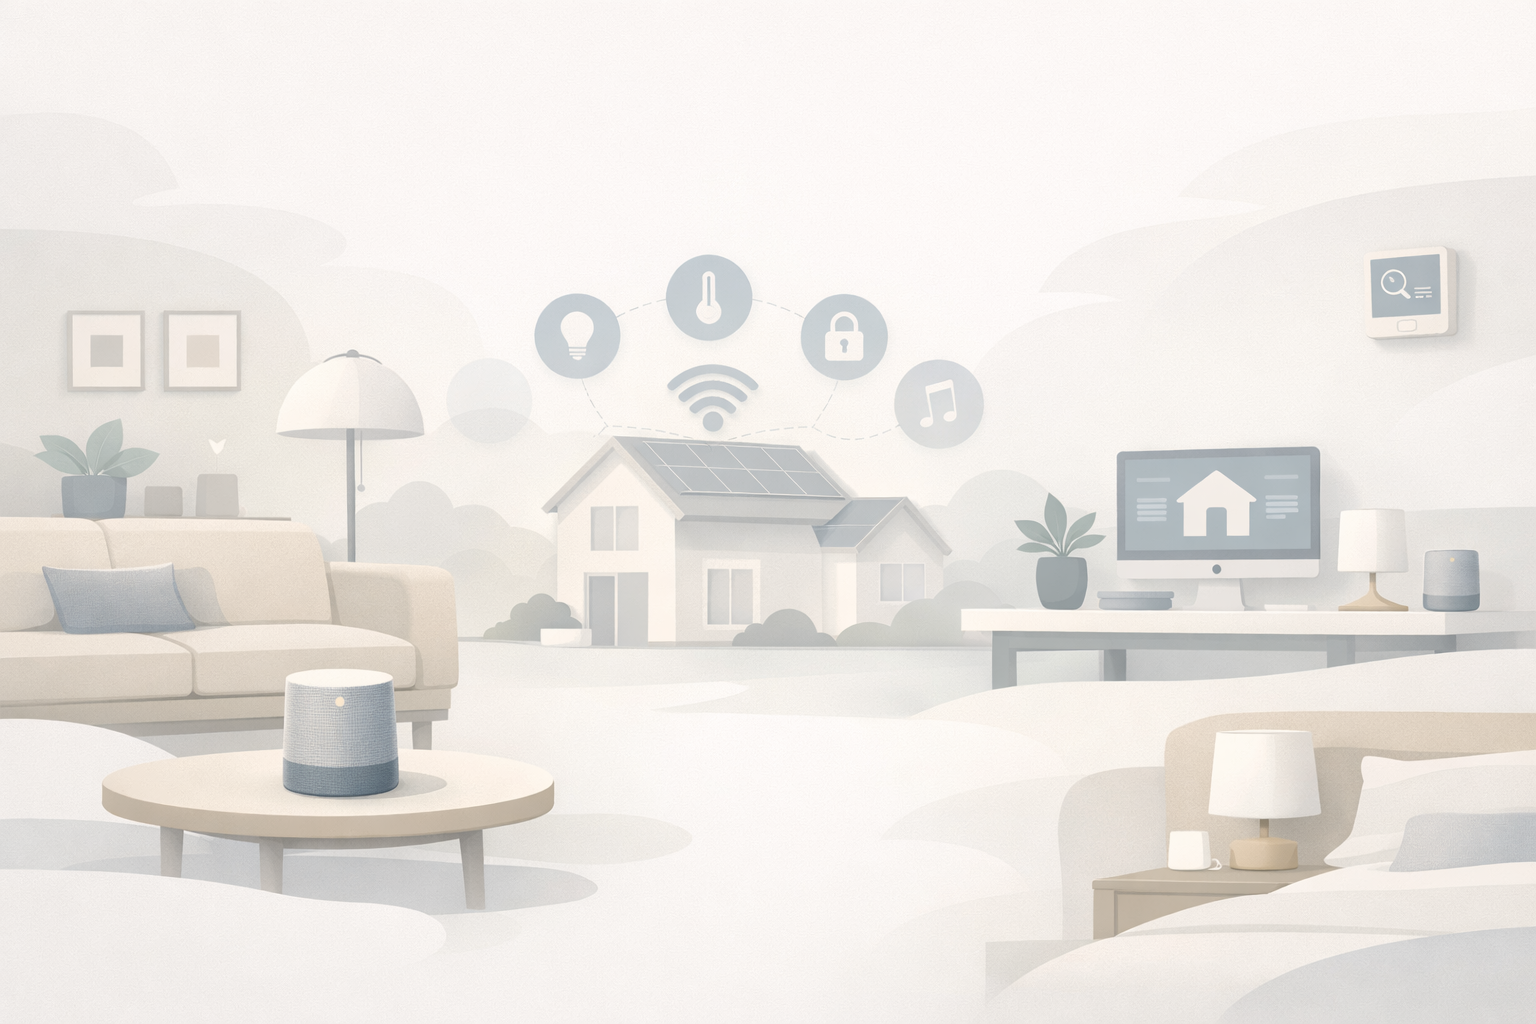
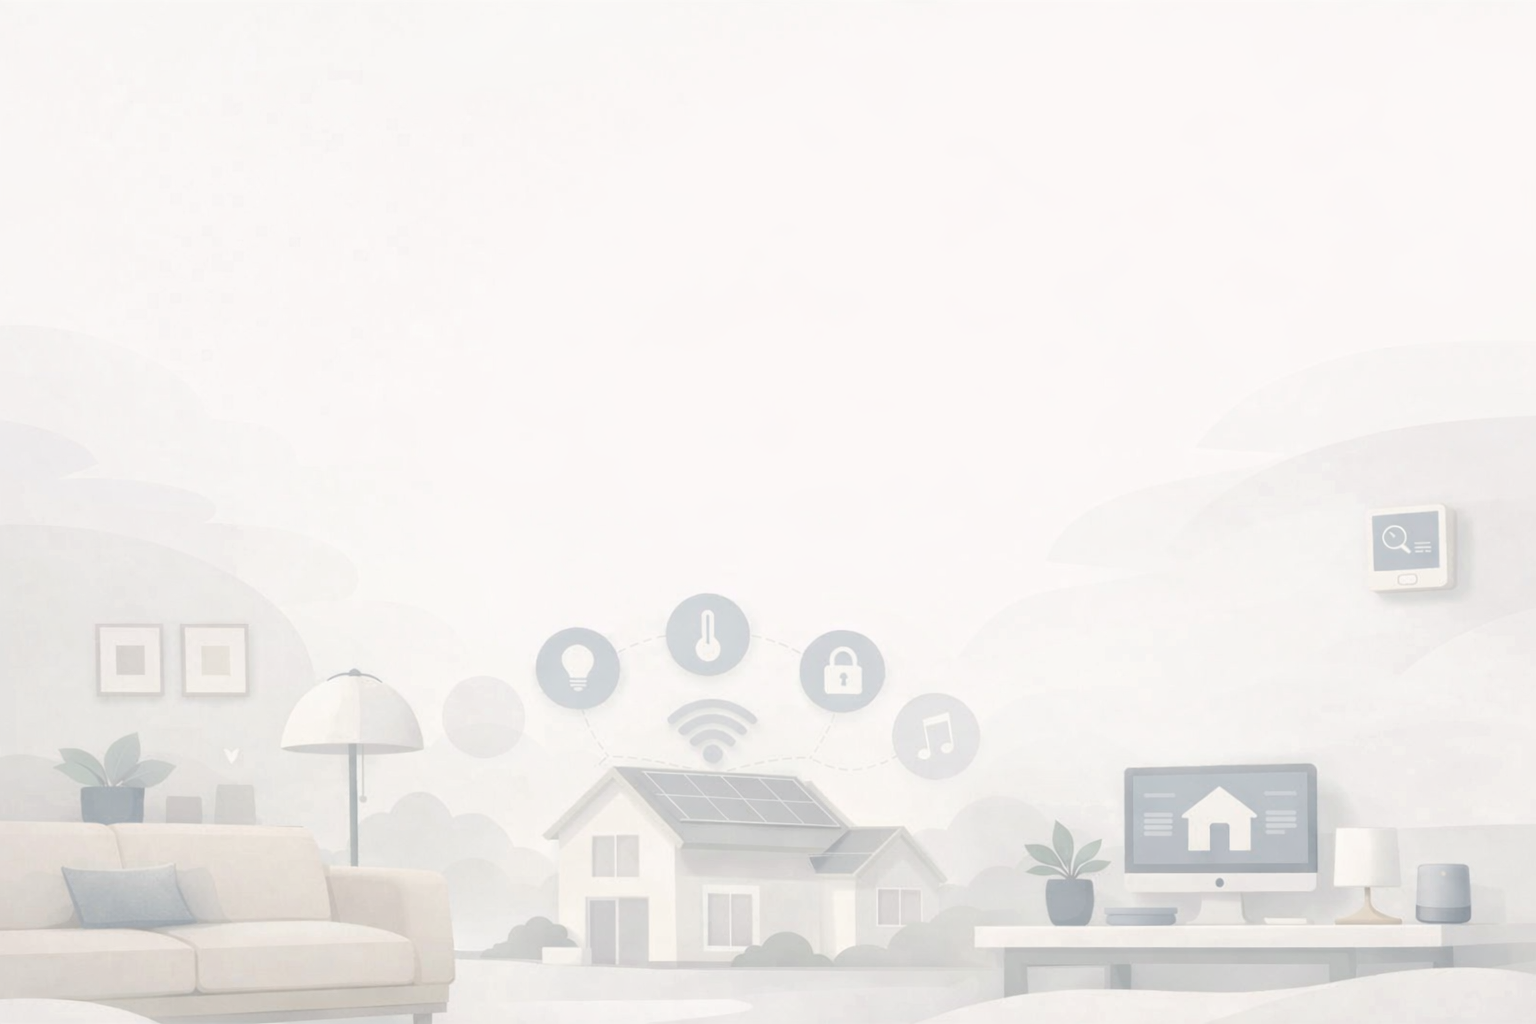
version.json

diff --git a/src/app/ui/main/power-control/power-control.component.ts b/src/app/ui/main/power-control/power-control.component.ts
@@ -31,7 +31,24 @@ import {DecimalPipe} from '@angular/common';
 })
 export class PowerControlComponent implements OnInit {
 
-  powerSummary: PowerSummary;
+  powerSummary = signal<PowerSummary>({
+    luminosity: 0,
+    extVoltage: 0,
+    extCurrent: 0,
+    extFrequency: 0,
+    extConsumption: 0,
+    intVoltage: 0,
+    intCurrent: 0,
+    intFrequency: 0,
+    intConsumption: 0,
+    intBckVoltage: 0,
+    intBckCurrent: 0,
+    intBckFrequency: 0,
+    intBckConsumption: 0,
+    securityMode: 0,
+    pwSrcConverterMode: 0,
+    pwSrcDirectMode: 0
+  });
 
   powerVoltageStat = signal<PowerVoltage>({
     extVoltage: [{
@@ -70,31 +87,12 @@ export class PowerControlComponent implements OnInit {
     }]
   })
 
-  constructor(private systemService: SystemService, private guestService: GuestService) {
-    this.powerSummary = {
-      luminosity: 0,
-      extVoltage: 0,
-      extCurrent: 0,
-      extFrequency: 0,
-      extConsumption: 0,
-      intVoltage: 0,
-      intCurrent: 0,
-      intFrequency: 0,
-      intConsumption: 0,
-      intBckVoltage: 0,
-      intBckCurrent: 0,
-      intBckFrequency: 0,
-      intBckConsumption: 0,
-      securityMode: 0,
-      pwSrcConverterMode: 0,
-      pwSrcDirectMode: 0
-    }
-  }
+  constructor(private systemService: SystemService, private guestService: GuestService) {}
 
   ngOnInit(): void {
     this.systemService.getPowerSummary().subscribe(response => {
       console.log(`received power summary: ` + JSON.stringify(response));
-      this.powerSummary = response;
+      this.powerSummary.set(response);
       this.systemService.getLuminosityStat().subscribe(luminosityStat => {
         this.luminosityStat.set(luminosityStat);
         this.systemService.getPowerVoltageStat().subscribe(powerVoltageStat => {
@@ -108,6 +106,6 @@ export class PowerControlComponent implements OnInit {
   }
 
   isExternalPowerSourceOk(): boolean {
-    return +this.powerSummary.extVoltage > 1700 && +this.powerSummary.extVoltage  > 2450;
+    return +this.powerSummary().extVoltage > 1700 && +this.powerSummary().extVoltage > 2450;
   }
 }

diff --git a/src/app/ui/main/power-control/power-control.component.html b/src/app/ui/main/power-control/power-control.component.html
@@ -10,15 +10,15 @@
       <mat-divider></mat-divider>
     </div>
     <div class="chart-summary-lb">External Power Line</div>
-    <div class="chart-summary-val">{{ (powerSummary.extVoltage * 0.1).toFixed(1) }} V</div>
+    <div class="chart-summary-val">{{ (powerSummary().extVoltage * 0.1).toFixed(1) }} V</div>
     <div class="chart-summary-lb">Frequency</div>
-    <div class="chart-summary-val">{{ (powerSummary.extFrequency * 0.01).toFixed(2) }} Hz</div>
+    <div class="chart-summary-val">{{ (powerSummary().extFrequency * 0.01).toFixed(2) }} Hz</div>
     <div class="chart-summary-lb">Current</div>
-    <div class="chart-summary-val">{{ (powerSummary.extCurrent * 0.1).toFixed(1) }} A</div>
+    <div class="chart-summary-val">{{ (powerSummary().extCurrent * 0.1).toFixed(1) }} A</div>
     <div class="chart-summary-lb">Consumption</div>
-    <div class="chart-summary-val">{{ (powerSummary.extConsumption * 0.1).toFixed(1) }} Kw/H</div>
+    <div class="chart-summary-val">{{ (powerSummary().extConsumption * 0.1).toFixed(1) }} Kw/H</div>
     <div class="chart-summary-lb">Luminosity</div>
-    <div class="chart-summary-val">{{ powerSummary.luminosity * .01 | number:'1.1' }}</div>
+    <div class="chart-summary-val">{{ powerSummary().luminosity * .01 | number:'1.1' }}</div>
   </div>
   <div class="page-container-sub">
     <div class="data-header">
@@ -31,13 +31,13 @@
       <mat-divider></mat-divider>
     </div>
     <div class="chart-summary-lb">Internal Bck Power Line</div>
-    <div class="chart-summary-val">{{ (powerSummary.intBckVoltage * 0.1).toFixed(1) }} V</div>
+    <div class="chart-summary-val">{{ (powerSummary().intBckVoltage * 0.1).toFixed(1) }} V</div>
     <div class="chart-summary-lb">Frequency</div>
-    <div class="chart-summary-val">{{ (powerSummary.intBckFrequency * 0.01).toFixed(2) }} Hz</div>
+    <div class="chart-summary-val">{{ (powerSummary().intBckFrequency * 0.01).toFixed(2) }} Hz</div>
     <div class="chart-summary-lb">Current</div>
-    <div class="chart-summary-val">{{ (powerSummary.intBckCurrent * 0.1).toFixed(1) }} A</div>
+    <div class="chart-summary-val">{{ (powerSummary().intBckCurrent * 0.1).toFixed(1) }} A</div>
     <div class="chart-summary-lb">Consumption</div>
-    <div class="chart-summary-val">{{ (powerSummary.intBckConsumption * 0.1).toFixed(1) }} Kw/H</div>
+    <div class="chart-summary-val">{{ (powerSummary().intBckConsumption * 0.1).toFixed(1) }} Kw/H</div>
   </div>
 
   <div class="page-container-sub">
@@ -51,13 +51,13 @@
       <mat-divider></mat-divider>
     </div>
     <div class="chart-summary-lb">Int Direct Line</div>
-    <div class="chart-summary-val">{{ (powerSummary.intVoltage * 0.1).toFixed(1) }} V</div>
+    <div class="chart-summary-val">{{ (powerSummary().intVoltage * 0.1).toFixed(1) }} V</div>
     <div class="chart-summary-lb">Frequency</div>
-    <div class="chart-summary-val">{{ (powerSummary.intFrequency * 0.01).toFixed(2) }} Hz</div>
+    <div class="chart-summary-val">{{ (powerSummary().intFrequency * 0.01).toFixed(2) }} Hz</div>
     <div class="chart-summary-lb">Current</div>
-    <div class="chart-summary-val">{{ (powerSummary.intCurrent * 0.1).toFixed(1) }} A</div>
+    <div class="chart-summary-val">{{ (powerSummary().intCurrent * 0.1).toFixed(1) }} A</div>
     <div class="chart-summary-lb">Consumption</div>
-    <div class="chart-summary-val">{{ (powerSummary.intConsumption * 0.1).toFixed(1) }} Kw/H</div>
+    <div class="chart-summary-val">{{ (powerSummary().intConsumption * 0.1).toFixed(1) }} Kw/H</div>
   </div>
   <div class="chart-container-sub">
     <div class="chart-container">

diff --git a/src/app/ui/general/general-power/general-power.component.ts b/src/app/ui/general/general-power/general-power.component.ts
@@ -23,20 +23,18 @@ export class GeneralPowerComponent implements OnInit {
     extVoltage: [{ dt: new Date(), value: 0 }]
   })
 
-  powerSummary: ExtPowerSummary;
+  powerSummary = signal<ExtPowerSummary>({
+    extVoltage: 0,
+    extFrequency: 0
+  });
 
-  constructor(public guestService: GuestService) {
-    this.powerSummary = {
-      extVoltage: 0,
-      extFrequency: 0
-    }
-  }
+  constructor(public guestService: GuestService) {}
 
   ngOnInit(): void {
     this.guestService.getPowerStat().subscribe(response => {
       this.powerStat.set(response);
       this.guestService.getExtPowerVoltageStat().subscribe(powerSummary => {
-        this.powerSummary = powerSummary;
+        this.powerSummary.set(powerSummary);
       })
     })
   }

diff --git a/src/app/ui/general/general-power/general-power.component.html b/src/app/ui/general/general-power/general-power.component.html
@@ -10,9 +10,9 @@
   </div>
 
   <div class="chart-summary-lb">External Power Line</div>
-  <div class="chart-summary-val">{{ (powerSummary.extVoltage * 0.1).toFixed(1) }} V</div>
+  <div class="chart-summary-val">{{ (powerSummary().extVoltage * 0.1).toFixed(1) }} V</div>
   <div class="chart-summary-lb">External Power Frequency</div>
-  <div class="chart-summary-val">{{ (powerSummary.extFrequency * 0.01).toFixed(1) }} HZ</div>
+  <div class="chart-summary-val">{{ (powerSummary().extFrequency * 0.01).toFixed(1) }} HZ</div>
   <div class="chart-container">
     <app-general-power-chart [data]="powerStat()"></app-general-power-chart>
   </div>